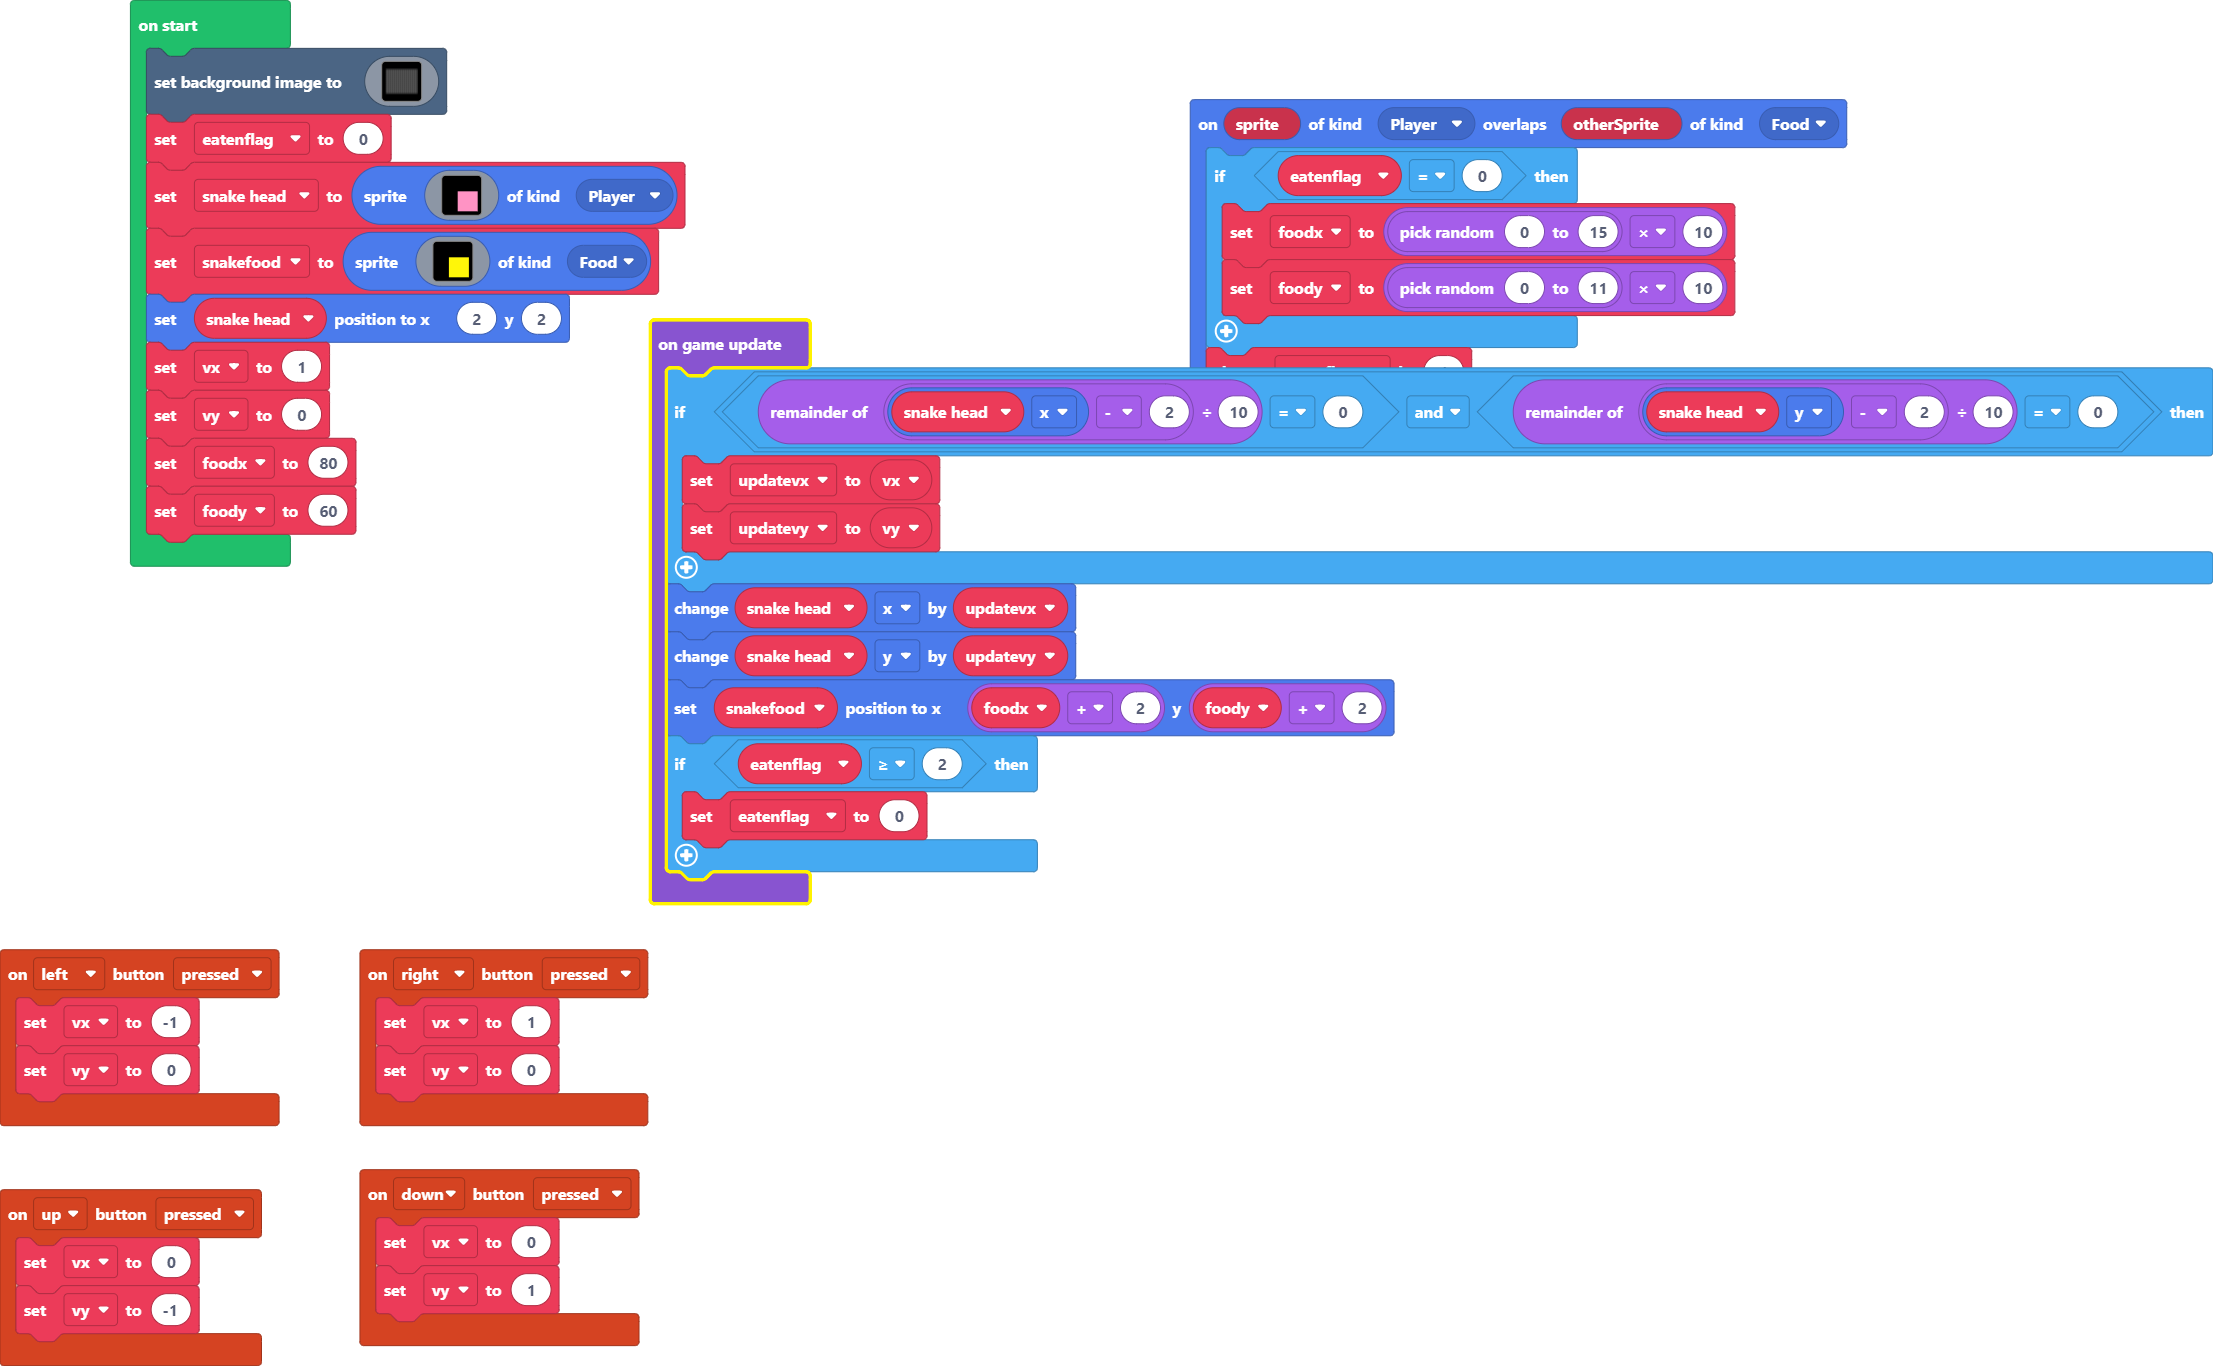
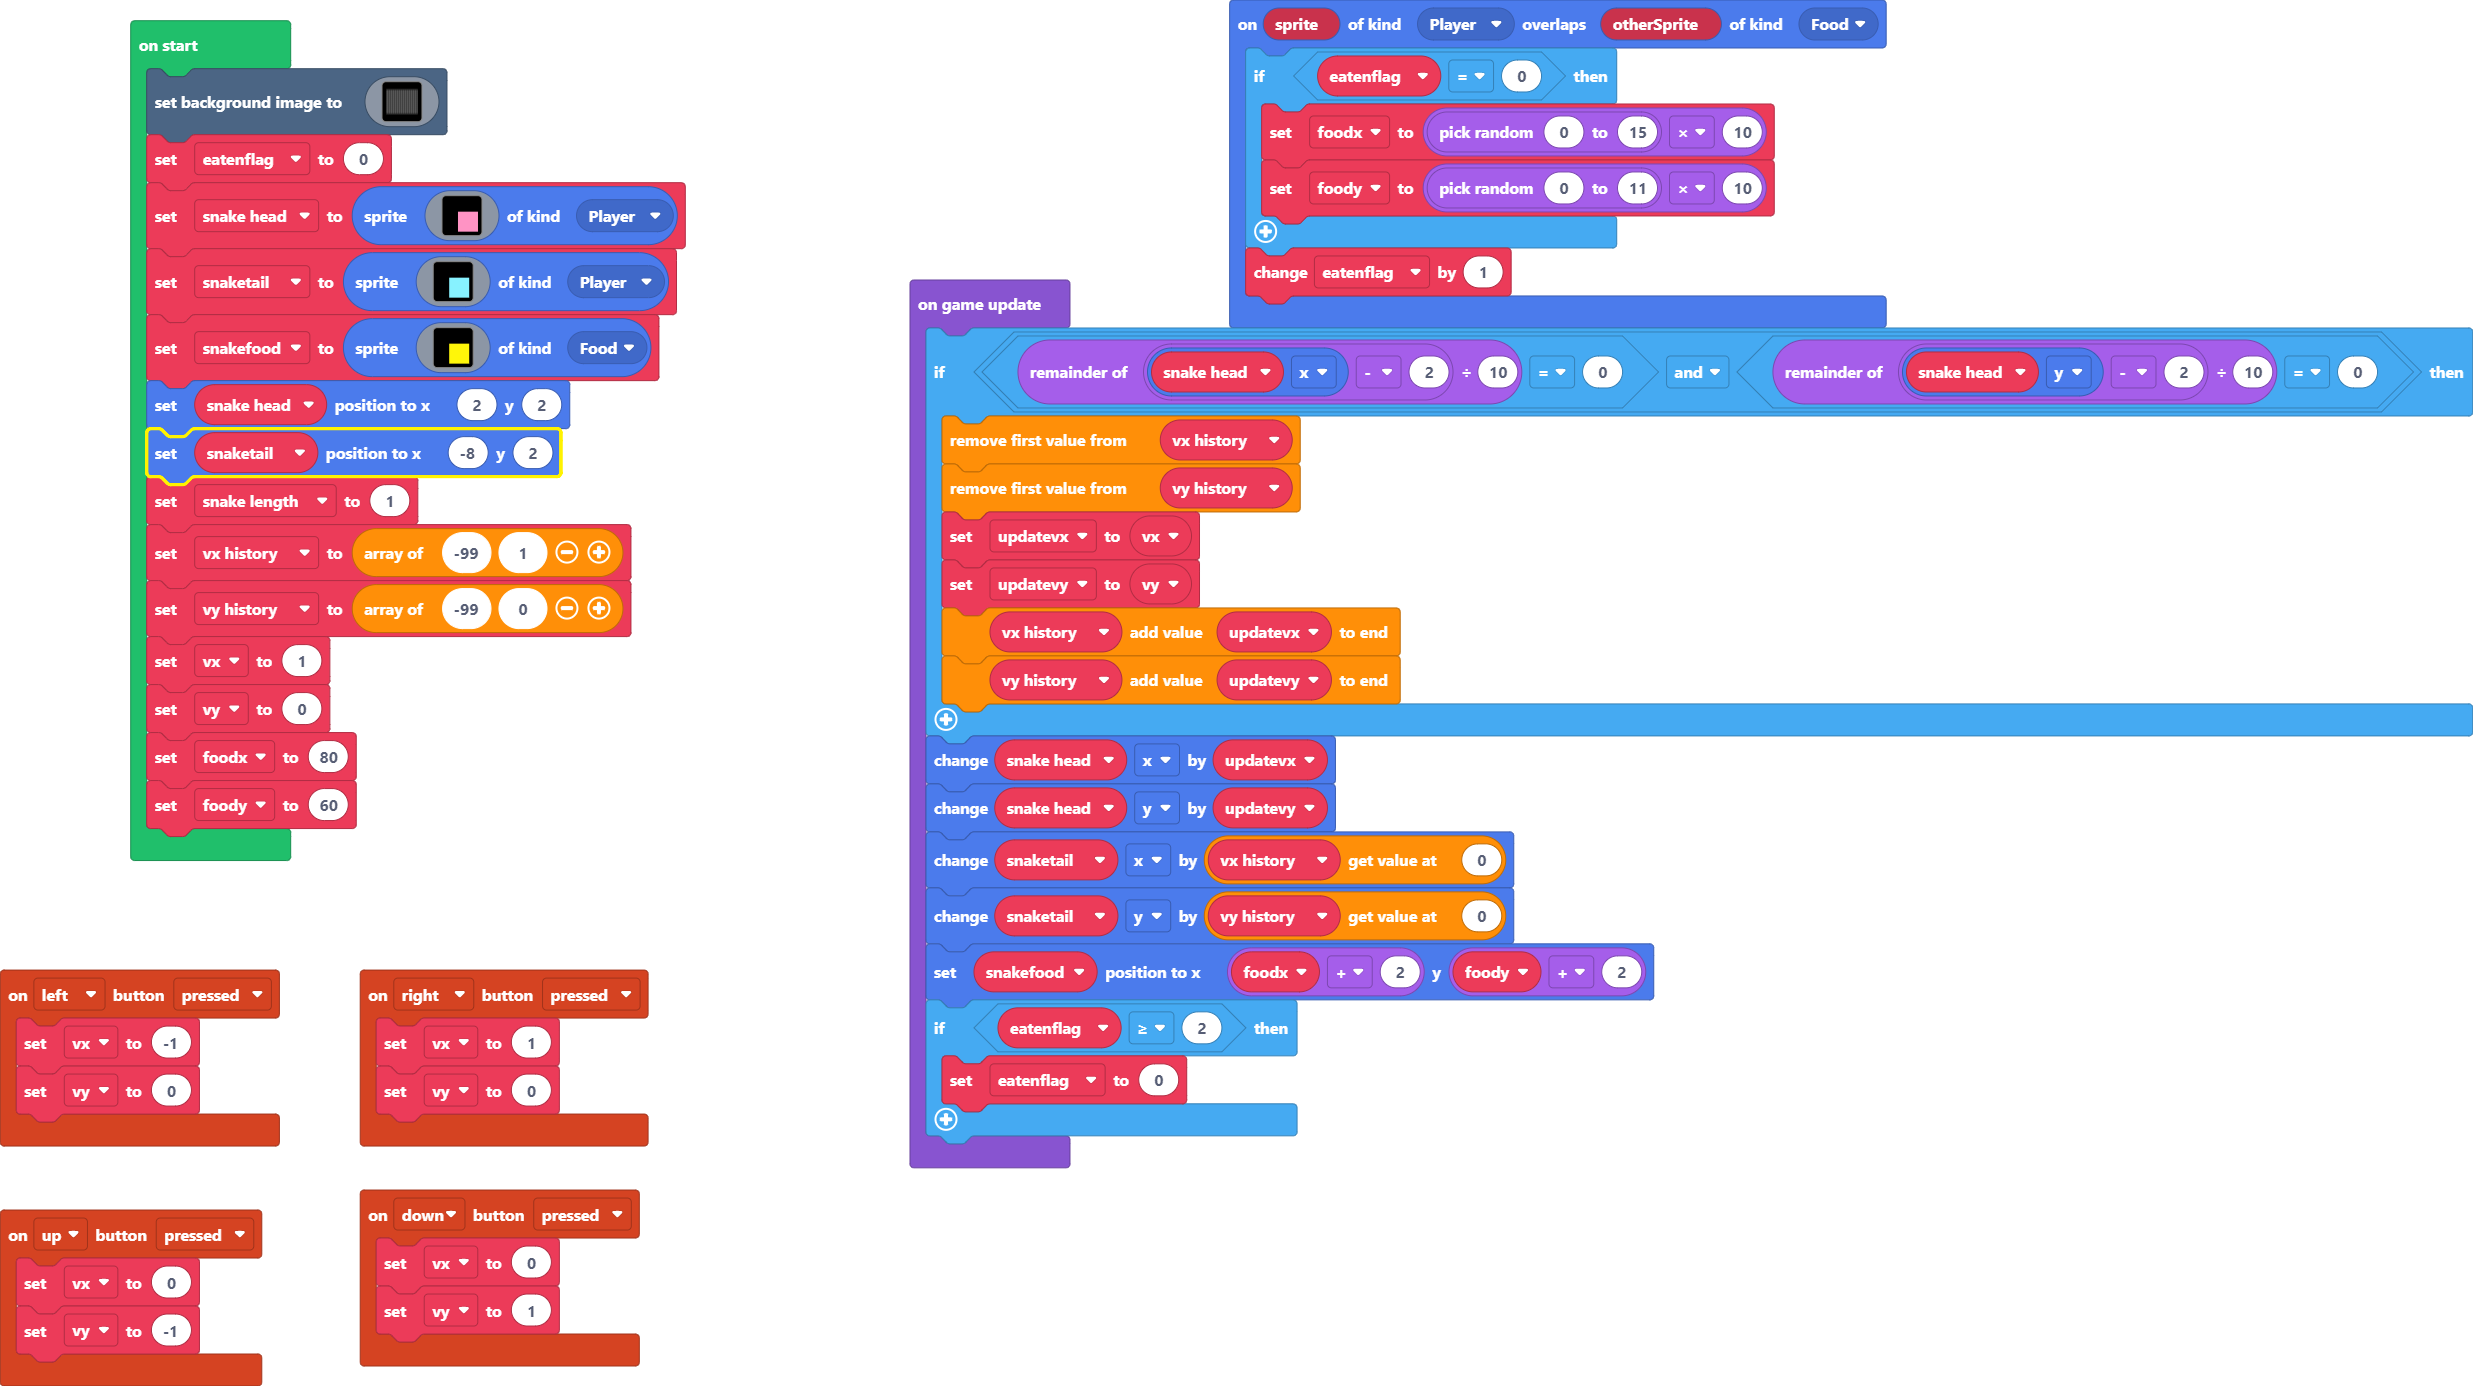
now having a caboose at the end works!

diff --git a/main.ts b/main.ts
@@ -31,6 +31,24 @@ let eatenflag = 0
 scene.setBackgroundImage(assets.image`Grid`)
 eatenflag = 0
 let snake_head = sprites.create(assets.image`snake block`, SpriteKind.Player)
+let snaketail = sprites.create(img`
+    . . . . . . . . . . . . . . . . 
+    . . . . . . . . . . . . . . . . 
+    . . . . . . . . . . . . . . . . 
+    . . . . . . . . . . . . . . . . 
+    . . . . . . . . . . . . . . . . 
+    . . . . . . . . . . . . . . . . 
+    . . . . . . 9 9 9 9 9 9 9 9 9 9 
+    . . . . . . 9 9 9 9 9 9 9 9 9 9 
+    . . . . . . 9 9 9 9 9 9 9 9 9 9 
+    . . . . . . 9 9 9 9 9 9 9 9 9 9 
+    . . . . . . 9 9 9 9 9 9 9 9 9 9 
+    . . . . . . 9 9 9 9 9 9 9 9 9 9 
+    . . . . . . 9 9 9 9 9 9 9 9 9 9 
+    . . . . . . 9 9 9 9 9 9 9 9 9 9 
+    . . . . . . 9 9 9 9 9 9 9 9 9 9 
+    . . . . . . 9 9 9 9 9 9 9 9 9 9 
+    `, SpriteKind.Player)
 let snakefood = sprites.create(img`
     . . . . . . . . . . . . . . . . 
     . . . . . . . . . . . . . . . . 
@@ -50,17 +68,27 @@ let snakefood = sprites.create(img`
     . . . . . . 5 5 5 5 5 5 5 5 5 5 
     `, SpriteKind.Food)
 snake_head.setPosition(2, 2)
+snaketail.setPosition(-8, 2)
+let snake_length = 1
+let vx_history = [-99, 1]
+let vy_history = [-99, 0]
 vx = 1
 vy = 0
 foodx = 80
 foody = 60
 game.onUpdate(function () {
     if ((snake_head.x - 2) % 10 == 0 && (snake_head.y - 2) % 10 == 0) {
+        vx_history.shift()
+        vy_history.shift()
         updatevx = vx
         updatevy = vy
+        vx_history.push(updatevx)
+        vy_history.push(updatevy)
     }
     snake_head.x += updatevx
     snake_head.y += updatevy
+    snaketail.x += vx_history[0]
+    snaketail.y += vy_history[0]
     snakefood.setPosition(foodx + 2, foody + 2)
     if (eatenflag >= 2) {
         eatenflag = 0
